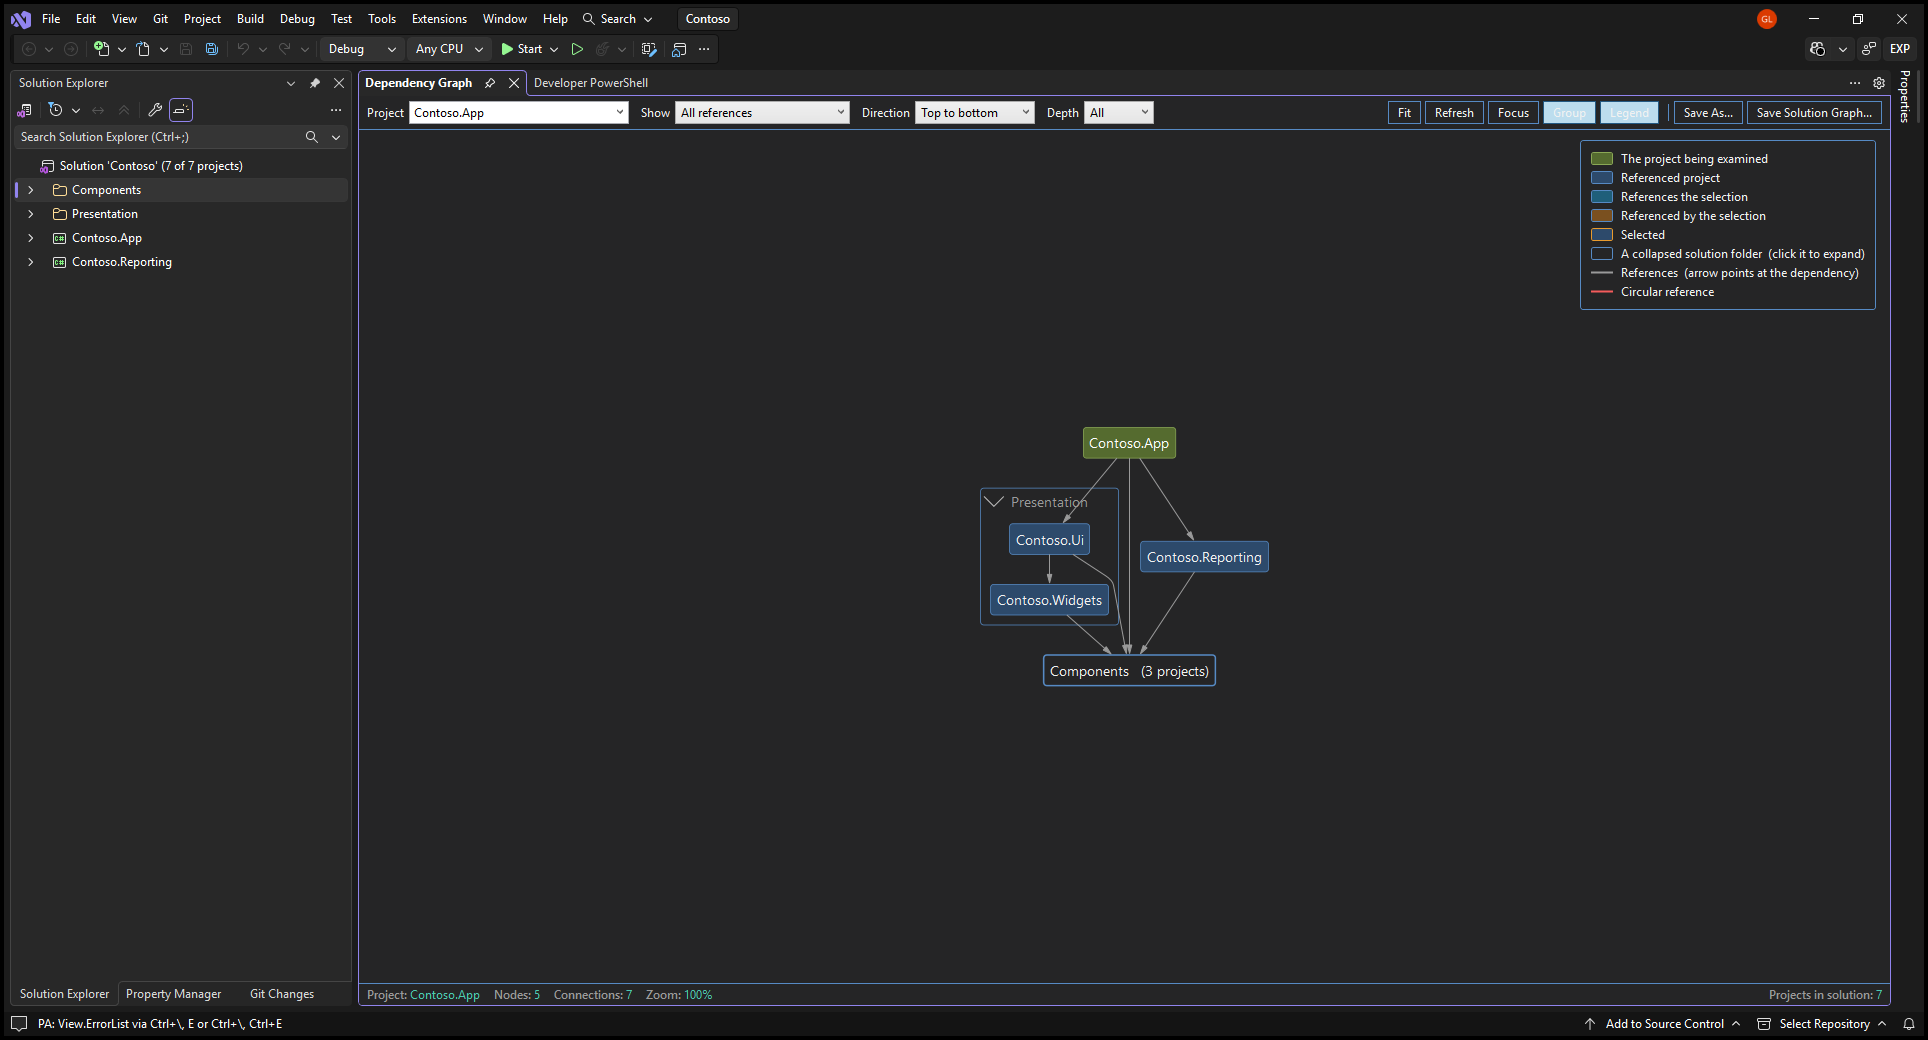
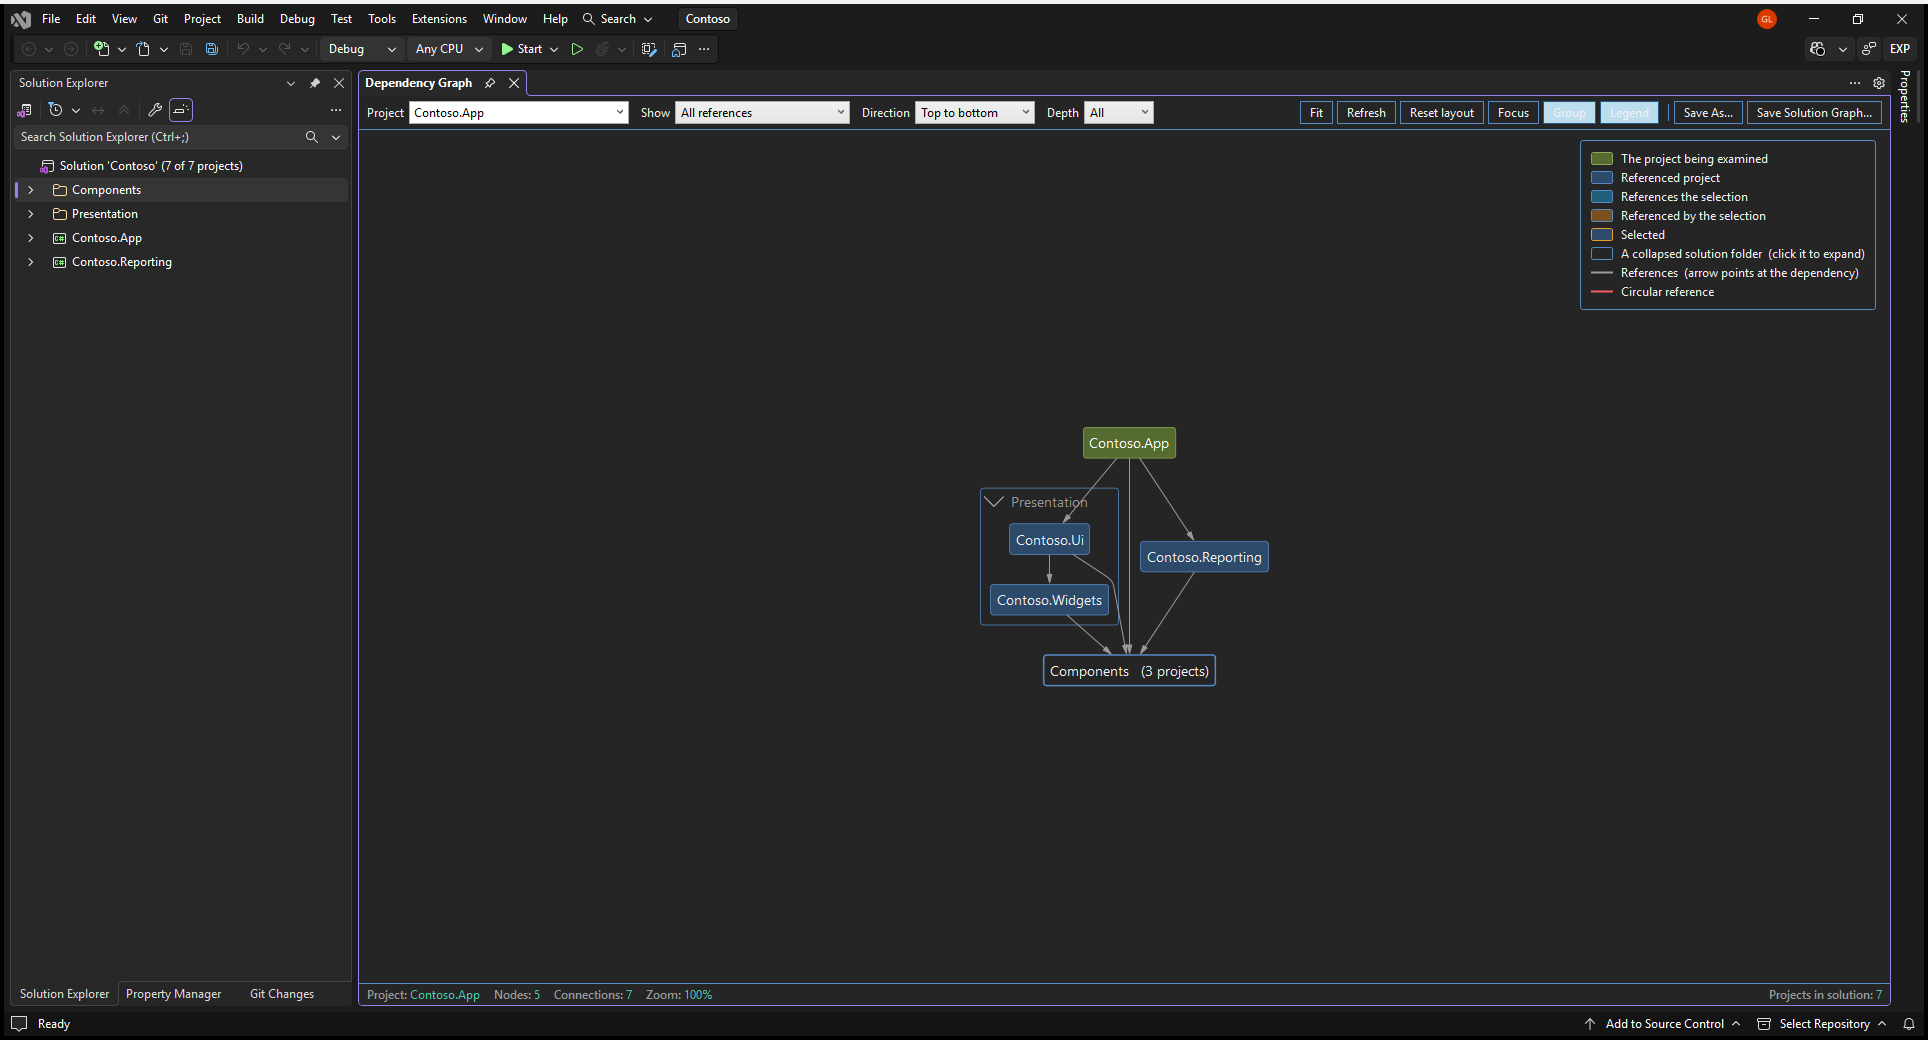
Fix exclusions in the whole-solution view, and let the command bar scroll
Two things found going back over the whole thing.

Excluded projects were half-applied in the whole-solution view. ApplyExclusions
never removes the project the graph is rooted at - excluding the very thing you
asked to see would just empty the window - but the whole-solution view has no
root, and the node it happens to hold as a handle is an arbitrary entry point.
So one project survived its own exclusion pattern, for no reason a user could
see or predict. The guard is now passed explicitly, and is null for that view.

The command bar could not fit a narrowly docked window, and Reset layout had
just made it ninety pixels worse. Both ends of it are fixed width - the combo
boxes and the buttons cannot shrink - so the actions on the right were simply
unreachable, with no scrollbar and nothing to indicate they were there. It now
scrolls sideways, with the inner grid's MinWidth following the viewport so that
nothing changes when there is room: the middle column still stretches and holds
the actions against the right edge. Checked at 980px, where the bar scrolls and
the buttons can be reached.

Also:
- The Show tooltip listed four views; there are five.
- Every screenshot showed a command bar without Reset layout. All six retaken.
- Two more known limitations written down rather than left to be discovered:
  resizing the window rescales the graph, because MSAGL rescales its own canvas
  with it, so the zoom drifts from the 100% it opens at; and the command bar
[…]

diff --git a/UI/DependencyGraphControl.xaml b/UI/DependencyGraphControl.xaml
@@ -53,7 +53,18 @@
             stay put as the window is resized.
         -->
         <Border x:Name="CommandBar" Grid.Row="0" Padding="8,5" BorderThickness="0,0,0,1">
-            <Grid>
+            <!--
+                Scrolls sideways when the bar cannot fit. A tool window docked narrow is common,
+                and the two ends of the bar are fixed-width - the combo boxes and the buttons
+                cannot shrink - so without this the actions on the right are simply unreachable.
+
+                MinWidth follows the viewport so the layout does not change when there is room:
+                the middle column can still stretch and hold the actions against the right edge.
+            -->
+            <ScrollViewer HorizontalScrollBarVisibility="Auto"
+                          VerticalScrollBarVisibility="Disabled"
+                          Padding="0" BorderThickness="0" Background="Transparent">
+            <Grid MinWidth="{Binding ViewportWidth, RelativeSource={RelativeSource AncestorType=ScrollViewer}}">
                 <Grid.ColumnDefinitions>
                     <ColumnDefinition Width="Auto"/>
                     <ColumnDefinition Width="*" MinWidth="8"/>
@@ -74,7 +85,7 @@
                     <ComboBox x:Name="CBDisplayMethod"
                               Style="{StaticResource BarCombo}"
                               Width="175"
-                              ToolTip="Which references become arrows.&#10;&#10;Deepest references only  -  one arrow per project, giving a clean tree&#10;All references  -  every reference of every project, the honest picture&#10;Project references only  -  this project and what it references directly&#10;Referenced by (impact)  -  everything that depends on this project"/>
+                              ToolTip="Which references become arrows.&#10;&#10;Deepest references only  -  one arrow per project, giving a clean tree&#10;All references  -  every reference of every project, the honest picture&#10;Project references only  -  this project and what it references directly&#10;Referenced by (impact)  -  everything that depends on this project&#10;Entire solution  -  every project and every reference, with no root"/>
 
                     <TextBlock x:Name="Lbl_Direction" Text="Direction" Style="{StaticResource BarLabel}"/>
                     <ComboBox x:Name="CBOrientation"
@@ -115,6 +126,7 @@
                             ToolTip="Save every project in the solution and its references - not just the graph on&#10;screen - as DGML or Graphviz.">Save Solution Graph...</Button>
                 </StackPanel>
             </Grid>
+            </ScrollViewer>
         </Border>
 
         <!-- GraphViewer.BindToPanel needs a Panel, so this host is a Grid, not a Border. -->

diff --git a/UI/GraphBuilder.cs b/UI/GraphBuilder.cs
@@ -89,7 +89,8 @@ namespace DependencyGraph.UI
                 backwards: visibility == ConnectionsVisibility.ReferencedBy,
                 wholeSolution: visibility == ConnectionsVisibility.Solution);
 
-            ApplyExclusions(included, prt);
+            ApplyExclusions(included,
+                visibility == ConnectionsVisibility.Solution ? null : prt);
 
             // Focus narrows the graph to a hand-picked set and the references between them,
             // which is the way to get a readable picture out of a busy solution.
@@ -462,8 +463,14 @@ namespace DependencyGraph.UI
         /// half of it and are rarely what you are looking at. The root is never excluded, since
         /// excluding the project you asked about would leave an empty window.
         /// </remarks>
+        /// <param name="keepAlways">
+        /// A project the patterns must not remove - the one the graph is rooted at, since excluding
+        /// the very project you asked to see would just empty the window. Null for the
+        /// whole-solution view, which has no root: there the patterns apply to everything, or a
+        /// project would survive its own exclusion for no reason the user could see.
+        /// </param>
         private static void ApplyExclusions(HashSet<ProjectReferenceTree> included,
-            ProjectReferenceTree root)
+            ProjectReferenceTree keepAlways)
         {
             string patterns;
             try { patterns = State.Settings.Instance.ExcludedProjects; }
@@ -477,7 +484,7 @@ namespace DependencyGraph.UI
                                 .ToList();
             if (globs.Count == 0) return;
 
-            included.RemoveWhere(p => p != root && globs.Any(g => Matches(p.ProjectName, g)));
+            included.RemoveWhere(p => p != keepAlways && globs.Any(g => Matches(p.ProjectName, g)));
         }
 
         /// <summary>Case-insensitive match supporting <c>*</c> and <c>?</c>.</summary>

diff --git a/README.md b/README.md
@@ -123,6 +123,10 @@ The **Show** dropdown changes which references are drawn, not which projects:
 On the sample solution above, the same seven projects give 6 connections under *Deepest* and
 12 under *All*.
 
+Everything that depends on one project, which no other view shows:
+
+![The impact view](docs/impact-view.png)
+
 The whole solution at once, with the one project nothing else references drawn as a root:
 
 ![The whole-solution view](docs/solution-view.png)
@@ -385,3 +389,6 @@ checking is deliberately kept out of the control for that reason: `GraphDrag`, `
   renaming the solution file loses them, since they are keyed by its path.
 - Collapsing a folder aggregates its references onto one node, so the connection count drops:
   several references between the same pair of boxes become one arrow.
+- Resizing the window rescales the graph with it, so the zoom drifts from the 100% it opens at.
+  That is MSAGL scaling its own canvas; **Fit**, or the mouse wheel, puts it back where you want.
+- The command bar scrolls sideways rather than wrapping when the window is too narrow for it.
